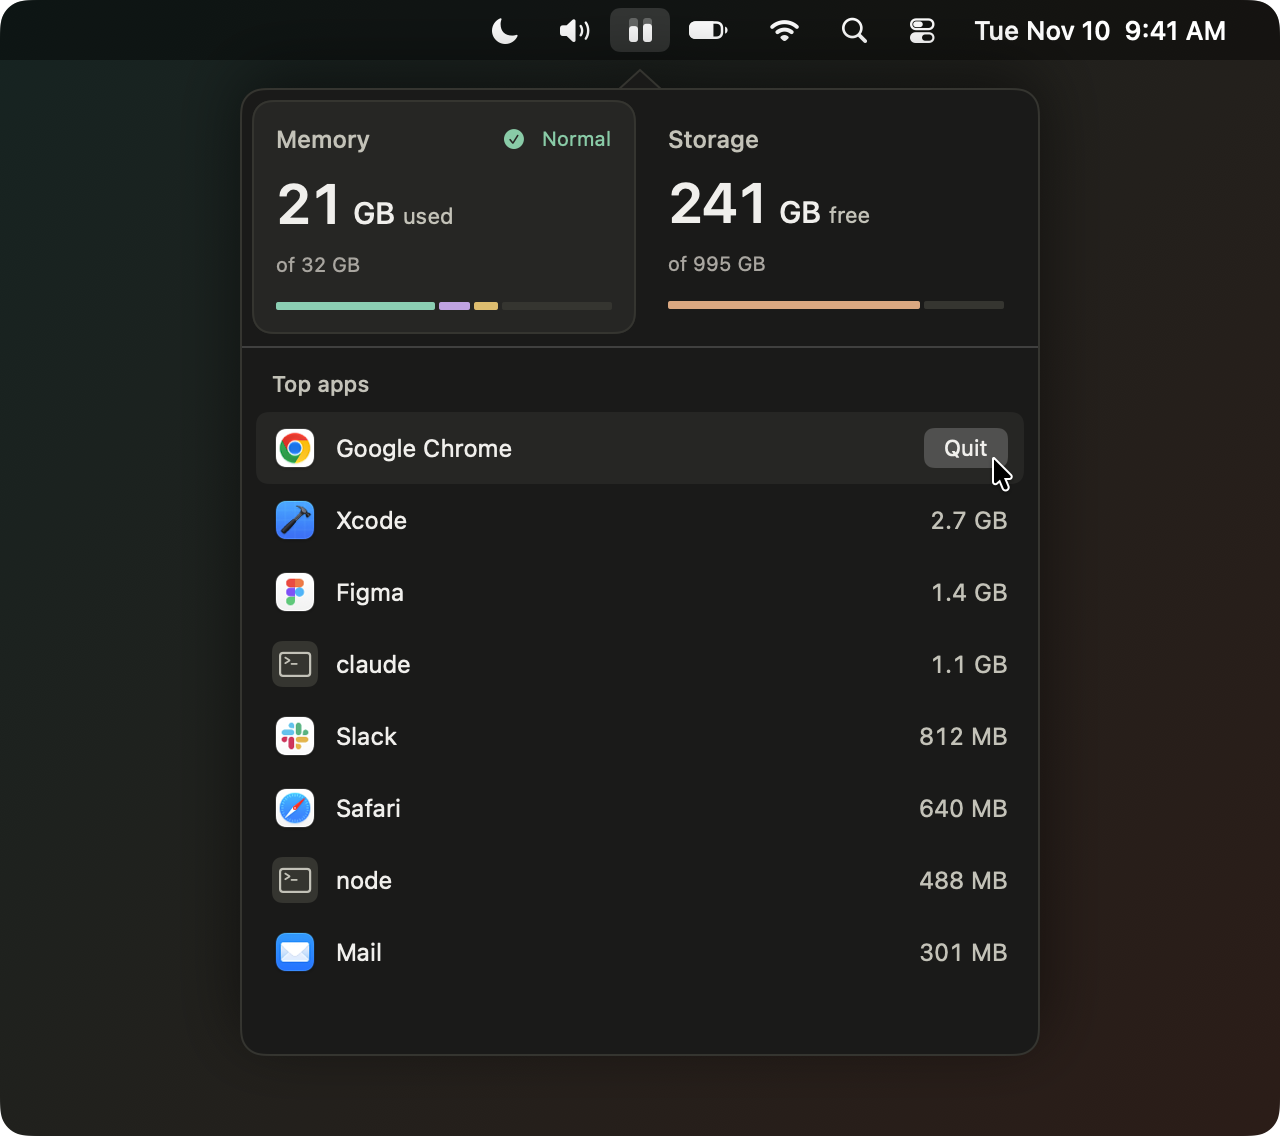
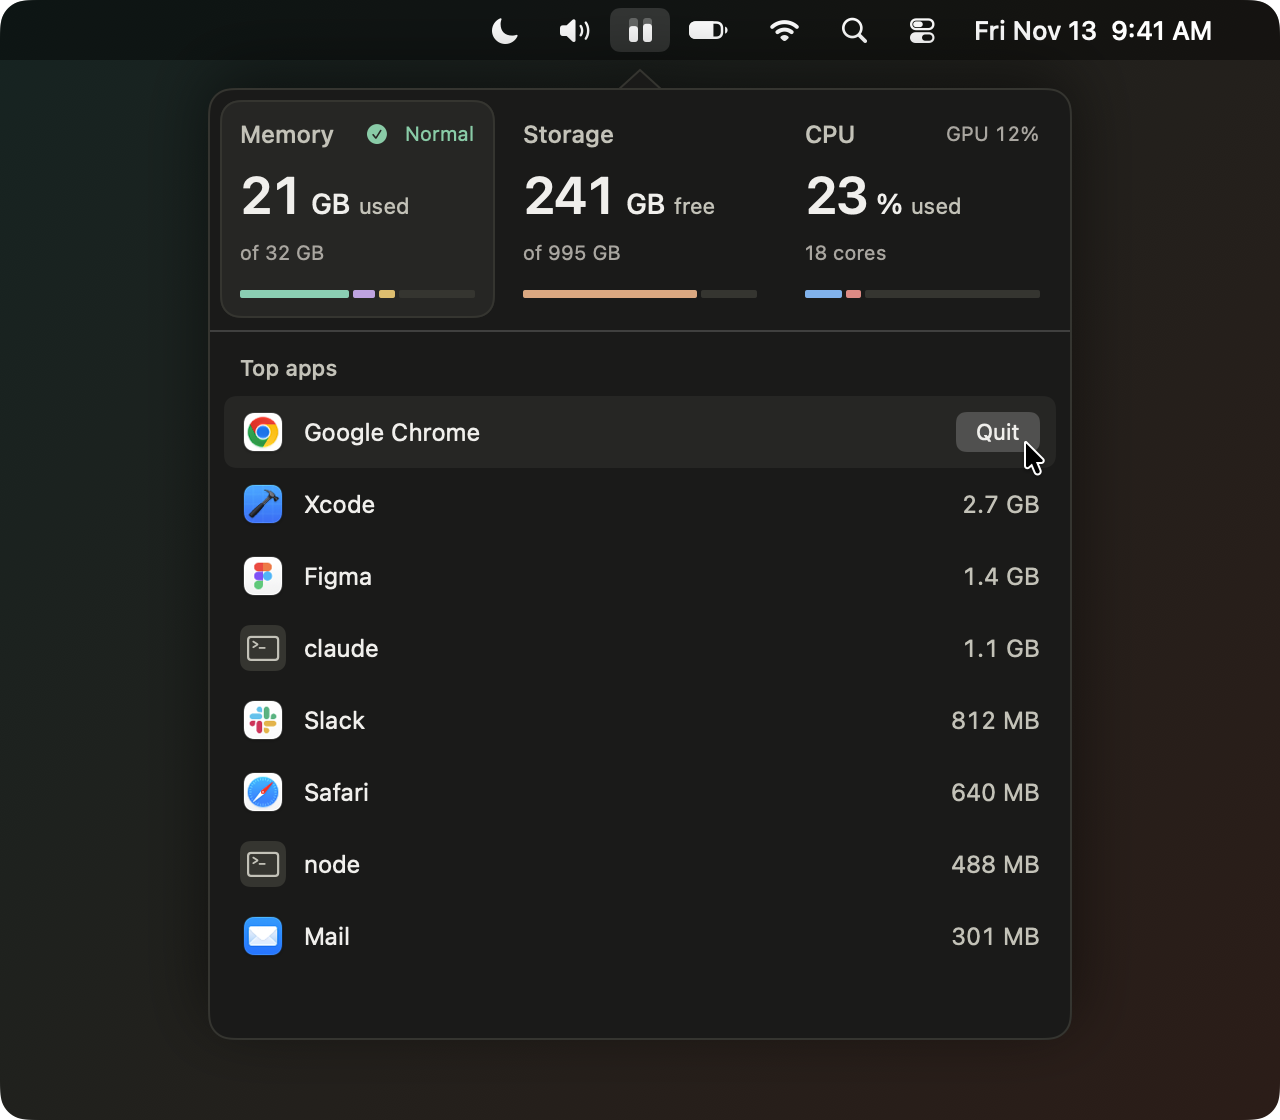
Version 1.2: screenshots, README and landing page show the CPU & GPU tab
- New light and dark screenshots with the three panels, and a new social preview (macOS 13+)
- README and landing page: CPU & GPU section, "memory, disk and CPU" in the intro,
  CPU and GPU bars in the icon note, the 2 s timer when those bars show
- Footprint re-measured: 54 MB, 0.18% CPU, 2.2 MB app (609 KB zip), 1,092 lines

diff --git a/docs/index.html b/docs/index.html
@@ -3,8 +3,8 @@
 <head>
 <meta charset="utf-8">
 <meta name="viewport" content="width=device-width, initial-scale=1, viewport-fit=cover">
-<title>gauge - memory and disk in your menu bar</title>
-<meta name="description" content="A small macOS menu bar app that shows how much memory and disk you’re using, and what’s taking it up.">
+<title>gauge - memory, disk and CPU in your menu bar</title>
+<meta name="description" content="A small macOS menu bar app that shows how much memory, disk and CPU you’re using, and what’s taking it up.">
 <meta name="color-scheme" content="light dark">
 <link rel="icon" href="logo.svg" type="image/svg+xml">
 <link rel="canonical" href="https://thisisvaze.github.io/gauge/">
@@ -12,13 +12,13 @@
 <meta property="og:type" content="website">
 <meta property="og:url" content="https://thisisvaze.github.io/gauge/">
 <meta property="og:title" content="gauge">
-<meta property="og:description" content="A small macOS menu bar app that shows how much memory and disk you’re using, and what’s taking it up.">
+<meta property="og:description" content="A small macOS menu bar app that shows how much memory, disk and CPU you’re using, and what’s taking it up.">
 <meta property="og:image" content="https://thisisvaze.github.io/gauge/social-preview.jpg">
 <meta property="og:image:width" content="1280">
 <meta property="og:image:height" content="640">
 <meta name="twitter:card" content="summary_large_image">
 <meta name="twitter:title" content="gauge">
-<meta name="twitter:description" content="A small macOS menu bar app that shows how much memory and disk you’re using, and what’s taking it up.">
+<meta name="twitter:description" content="A small macOS menu bar app that shows how much memory, disk and CPU you’re using, and what’s taking it up.">
 <meta name="twitter:image" content="https://thisisvaze.github.io/gauge/social-preview.jpg">
 
 <link rel="stylesheet" href="tokens.css">
@@ -153,6 +153,7 @@ h2 { font-size: var(--text-lg); font-weight: 700; line-height: 1.2; letter-spaci
 }
 .mark-memory { --mark: var(--color-memory-apps); }
 .mark-storage { --mark: var(--color-storage); }
+.mark-cpu { --mark: var(--color-cpu); }
 ul {
   margin: var(--space-lg) 0 0;
   padding-left: var(--space-xl);
@@ -234,7 +235,7 @@ li::marker { color: var(--color-muted); }
     <section class="split hero">
       <div class="hero-text">
         <h1>See what’s eating your memory</h1>
-        <p class="lede">A small macOS menu bar app that shows how much memory and disk you’re using, and what’s taking it up.</p>
+        <p class="lede">A small macOS menu bar app that shows how much memory, disk and CPU you’re using, and what’s taking it up.</p>
         <div class="get">
           <a class="btn" href="https://github.com/thisisvaze/gauge/releases/latest/download/gauge.zip">Download</a>
           <p>macOS&nbsp;13 or later, Apple silicon and Intel. Free and open source (MIT).</p>
@@ -244,7 +245,7 @@ li::marker { color: var(--color-muted); }
       <figure class="shot">
         <picture>
           <source srcset="gauge-dark.png" media="(prefers-color-scheme: dark)">
-          <img src="gauge-light.png" width="640" height="568" fetchpriority="high" alt="gauge open from the menu bar: 21 GB of 32 GB memory used, 241 GB of 995 GB disk free, and the top apps by memory, with the pointer on Google Chrome’s Quit button">
+          <img src="gauge-light.png" width="640" height="560" fetchpriority="high" alt="gauge open from the menu bar: 21 GB of 32 GB memory used, 241 GB of 995 GB disk free, 23% CPU used, and the top apps by memory, with the pointer on Google Chrome’s Quit button">
         </picture>
       </figure>
     </section>
@@ -252,7 +253,7 @@ li::marker { color: var(--color-muted); }
     <section class="split features" aria-label="What it shows">
       <figure class="icon-note">
         <img src="logo.svg" alt="" width="128" height="128" loading="lazy">
-        <figcaption>The icon is two bars - memory on the left, disk on the right. Memory turns orange or red when macOS reports memory pressure, disk turns red once it’s over 90% full.</figcaption>
+        <figcaption>The icon is two bars - memory on the left, disk on the right. Memory turns orange or red when macOS reports memory pressure, disk turns red once it’s over 90% full. Right-click it to also show CPU and GPU bars.</figcaption>
       </figure>
       <div class="lists">
         <div>
@@ -273,6 +274,13 @@ li::marker { color: var(--color-muted); }
             <li>Full Disk Access is optional, you only need it for a complete scan</li>
           </ul>
         </div>
+        <div>
+          <h2 class="mark mark-cpu">CPU &amp; GPU</h2>
+          <ul>
+            <li>Total CPU used across your cores, split into user and system, plus current GPU utilization</li>
+            <li>Your top apps and command line tools by CPU, with the same click-to-switch and Quit actions</li>
+          </ul>
+        </div>
       </div>
     </section>
 
@@ -282,16 +290,16 @@ li::marker { color: var(--color-muted); }
         <p>Measured on an M5&nbsp;Pro with macOS&nbsp;27.2, gauge sitting in the menu bar.</p>
         <ul>
           <li>Memory and per-app numbers come straight from the kernel, no <code>ps</code> or <code>top</code> running in the background</li>
-          <li>The icon updates every 5&nbsp;seconds and free disk space is only checked once a minute</li>
+          <li>The icon updates every 5&nbsp;seconds (2 with CPU or GPU bars showing) and free disk space is only checked once a minute</li>
           <li>The window refreshes every 2&nbsp;seconds, only while it’s open</li>
           <li>The storage scan is one low priority <code>du</code> run, saved to disk so it doesn’t run again on every launch</li>
         </ul>
       </div>
       <dl class="numbers">
-        <div><dt>Memory</dt><dd>39&nbsp;MB</dd></div>
-        <div><dt>CPU</dt><dd>0.15% on average<small>0.18&nbsp;s of CPU time in 2&nbsp;minutes</small></dd></div>
-        <div><dt>App size</dt><dd>1.8&nbsp;MB<small>480&nbsp;KB to download, Apple silicon and Intel</small></dd></div>
-        <div><dt>Code</dt><dd>874 lines of Swift</dd></div>
+        <div><dt>Memory</dt><dd>54&nbsp;MB</dd></div>
+        <div><dt>CPU</dt><dd>0.18% on average<small>0.21&nbsp;s of CPU time in 2&nbsp;minutes</small></dd></div>
+        <div><dt>App size</dt><dd>2.2&nbsp;MB<small>609&nbsp;KB to download, Apple silicon and Intel</small></dd></div>
+        <div><dt>Code</dt><dd>1,092 lines of Swift</dd></div>
         <div><dt>Dependencies</dt><dd>None</dd></div>
       </dl>
     </section>

diff --git a/docs/tokens.css b/docs/tokens.css
@@ -22,6 +22,7 @@
   --color-accent-soft: oklch(94% .005 90);
   --color-memory-apps: oklch(51% .095 175);
   --color-storage: oklch(59% .135 43);
+  --color-cpu: oklch(51% .119 250);
   --color-focus: oklch(30% .007 90);
   /* added: hover step for the graphite button */
   --color-accent-hover: oklch(38% .007 90);
@@ -73,6 +74,7 @@
     --color-accent-hover: oklch(84% .005 90);
     --color-memory-apps: oklch(74% .10 175);
     --color-storage: oklch(75% .12 43);
+    --color-cpu: oklch(75% .11 247);
     --color-focus: oklch(93% .005 90);
   }
 }

diff --git a/README.md b/README.md
@@ -2,12 +2,12 @@
 
 # gauge
 
-A small macOS menu bar app that shows how much memory and disk you're using, and what's taking it up.
+A small macOS menu bar app that shows how much memory, disk and CPU you're using, and what's taking it up.
 
 <p align="center">
   <picture>
     <source media="(prefers-color-scheme: dark)" srcset="docs/gauge-dark.png">
-    <img src="docs/gauge-light.png" width="640" alt="gauge open from the menu bar: 21 GB of 32 GB memory used, 241 GB of 995 GB disk free, and the top apps by memory, with the pointer on Google Chrome's Quit button">
+    <img src="docs/gauge-light.png" width="640" alt="gauge open from the menu bar: 21 GB of 32 GB memory used, 241 GB of 995 GB disk free, 23% CPU used, and the top apps by memory, with the pointer on Google Chrome's Quit button">
   </picture>
 </p>
 
@@ -40,13 +40,13 @@ Measured on an M5 Pro with macOS 27.2, gauge sitting in the menu bar:
 
 | | |
 |---|---|
-| Memory | 39 MB |
-| CPU | 0.15% on average (0.18 s of CPU time in 2 minutes) |
-| App size | 1.8 MB (480 KB to download), Apple silicon and Intel |
-| Code | 874 lines of Swift, no dependencies |
+| Memory | 54 MB |
+| CPU | 0.18% on average (0.21 s of CPU time in 2 minutes) |
+| App size | 2.2 MB (609 KB to download), Apple silicon and Intel |
+| Code | 1,092 lines of Swift, no dependencies |
 
 - Memory and per-app numbers come straight from the kernel, no `ps` or `top` running in the background
-- The icon updates every 5 seconds with a bit of slack so macOS can group the wakeups with others, and free disk space is only checked once a minute
+- The icon updates every 5 seconds with a bit of slack so macOS can group the wakeups with others, and free disk space is only checked once a minute. With CPU or GPU bars in the menu bar it updates every 2 seconds instead
 - The window refreshes every 2 seconds only while it's open, and its views are thrown away when it closes
 - The storage scan is one low priority `du` run that only reports things over 100 MB. It's saved to disk so it doesn't run again on every launch
 
